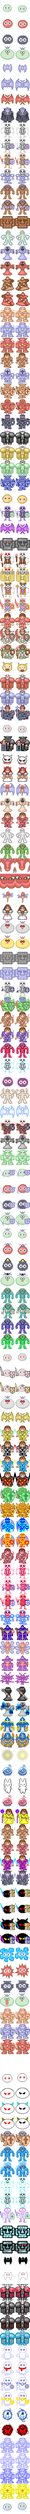
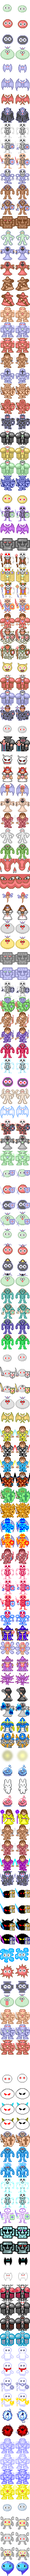
添加boss，最后调整

diff --git a/public/project/floors/MT48.js b/public/project/floors/MT48.js
@@ -25,15 +25,13 @@ main.floors.MT48=
                 "type": "setValue",
                 "name": "status:hp",
                 "operator": "/=",
-                "value": "10",
-                "norefresh": true
+                "value": "10"
             },
             {
                 "type": "setValue",
                 "name": "status:hp",
                 "operator": "+=",
-                "value": "item:yellowKey*2000+item:blueKey*5000+item:redKey*10000",
-                "norefresh": true
+                "value": "item:yellowKey*2000+item:blueKey*5000+item:redKey*10000"
             },
             {
                 "type": "function",
@@ -42,6 +40,26 @@ main.floors.MT48=
             {
                 "type": "win",
                 "reason": "第二章测试"
+            }
+        ],
+        "7,10": [
+            "\t[苍蓝之灵-虚,E647]\b[up,7,7]你来了，智慧之神看中的人。",
+            "\t[中级智人]\b[up,hero]你是什么人？",
+            "\t[苍蓝之灵-虚,E647]\b[up,7,7]苍蓝之灵。",
+            "\t[苍蓝之灵-虚,E647]\b[up,7,7]我跟你之前见到的智慧之神是同一时期的产物。",
+            "\t[苍蓝之灵-虚,E647]\b[up,7,7]你应该也知道当时发生了什么。",
+            "\t[中级智人]\b[up,hero]那你又为何出现在这里呢？",
+            "\t[苍蓝之灵-虚,E647]\b[up,7,7]抬头，看到那宏伟的宫殿了吗？（玩家视角应该看不到）",
+            "\t[苍蓝之灵-虚,E647]\b[up,7,7]那便是未来之人做下的最后赌注 - 苍蓝之殿。",
+            "\t[苍蓝之灵-虚,E647]\b[up,7,7]你现在还有很多疑虑吧，那里便有你想要找的答案。",
+            "\t[中级智人]\b[up,hero]那么我怎么过去？",
+            "\t[苍蓝之灵-虚,E647]\b[up,7,7]打败我，你便有资格进入。",
+            "\t[中级智人]\b[up,hero]为什么又是要打架？",
+            "\t[苍蓝之灵-虚,E647]\b[up,7,7]......",
+            "\t[苍蓝之灵-虚,E647]\b[up,7,7]之后，你会明白的。",
+            {
+                "type": "hide",
+                "remove": true
             }
         ]
     },
@@ -55,7 +73,18 @@ main.floors.MT48=
         }
     },
     "beforeBattle": {},
-    "afterBattle": {},
+    "afterBattle": {
+        "7,7": [
+            "\t[中级智人]\b[up,hero]为什么，为什么一定要打架，决定胜负呢？",
+            {
+                "type": "openDoor",
+                "loc": [
+                    7,
+                    3
+                ]
+            }
+        ]
+    },
     "afterGetItem": {},
     "afterOpenDoor": {},
     "autoEvent": {},
@@ -66,13 +95,13 @@ main.floors.MT48=
     [146,146,146,146,  0,  0,604,  0,604,  0,146,146,  0,  0,146],
     [  0,  0,  0,  0,  0,  0,604,  0,604,  0,  0,146,146,  0,146],
     [587,  0,584,584,584,584,584, 85,584,584,584,584,584,  0,146],
-    [587,  0,584,  0,  0,  0,  0,  0,  0,  0,  0,  0,584,  0,  0],
-    [587,  0,584,  0,  0,  0,  0,  0,  0,  0,  0,  0,584,588,588],
-    [587,  0,584,  0,  0,  0,  0,  0,  0,  0,  0,  0,584,  0,588],
-    [  0,  0,584,  0,  0,  0,  0,  0,  0,  0,  0,  0,584,  0,588],
-    [  0,  0,584,  0,  0,  0,  0,  0,  0,  0,  0,  0,584,  0,588],
-    [  0,588,584,  0,  0,  0,  0,  0,  0,  0,  0,  0,584,  0,  0],
-    [  0,588,584,  0,  0,  0,  0,  0,  0,  0,  0,  0,584,604,  0],
+    [587,  0,584,  0,  0,  0,584,  0,584,  0,  0,  0,584,  0,  0],
+    [587,  0,584,  0,  0,  0,584,  0,584,  0,  0,  0,584,588,588],
+    [587,  0,584,  0,466,  0,584,  0,584,  0,467,  0,584,  0,588],
+    [  0,  0,584,  0,  0,491,  0,647,  0,491,  0,  0,584,  0,588],
+    [  0,  0,584,  0,468,  0,584,  0,584,  0,468,  0,584,  0,588],
+    [  0,588,584,  0,  0,  0,584,  0,584,  0,  0,  0,584,  0,  0],
+    [  0,588,584,  0,  0,  0,584,  0,584,  0,  0,  0,584,604,  0],
     [588,588,584,584,584,584,584,492,584,584,584,584,584,604,  0],
     [  0,  0,  0,  0,  0,  0,604,  0,604,  0,  0,  0,  0,604,  0],
     [  0,  0,  0,  0,  0,  0,604,  0,604,  0,  0,  0,  0,  0,  0],

diff --git a/public/project/enemys.js b/public/project/enemys.js
@@ -167,5 +167,9 @@ var enemys_fcae963b_31c9_42b4_b48c_bb48d09f3f80 =
 	"E616": {"name":"新敌人","hp":0,"atk":0,"def":0,"money":0,"exp":0,"point":0,"special":[]},
 	"E617": {"name":"冰封雕像","hp":12500,"atk":2750,"def":2000,"money":2,"exp":150,"point":0,"special":[]},
 	"E618": {"name":"新敌人","hp":0,"atk":0,"def":0,"money":0,"exp":0,"point":0,"special":[]},
-	"E643": {"name":"苍蓝史莱姆","hp":17500,"atk":2800,"def":2000,"money":3,"exp":175,"point":0,"special":[28],"paleShield":30}
+	"E643": {"name":"苍蓝史莱姆","hp":17500,"atk":2800,"def":2000,"money":3,"exp":175,"point":0,"special":[28],"paleShield":30},
+	"E644": {"name":"新敌人","hp":0,"atk":0,"def":0,"money":0,"exp":0,"point":0,"special":[]},
+	"E645": {"name":"新敌人","hp":0,"atk":0,"def":0,"money":0,"exp":0,"point":0,"special":[]},
+	"E646": {"name":"新敌人","hp":0,"atk":0,"def":0,"money":0,"exp":0,"point":0,"special":[]},
+	"E647": {"name":"苍蓝之灵-虚","hp":30000,"atk":5000,"def":3000,"money":10,"exp":2500,"point":0,"special":[28],"paleShield":10}
 }

diff --git a/public/project/maps.js b/public/project/maps.js
@@ -572,6 +572,10 @@ var maps_90f36752_8815_4be8_b32b_d7fad1d0542e =
 	"641": {"cls":"items","id":"I641"},
 	"642": {"cls":"items","id":"I642"},
 	"643": {"cls":"enemys","id":"E643"},
+	"644": {"cls":"enemys","id":"E644"},
+	"645": {"cls":"enemys","id":"E645"},
+	"646": {"cls":"enemys","id":"E646"},
+	"647": {"cls":"enemys","id":"E647"},
 	"20032": {"cls":"tileset","id":"X20032","cannotOut":["up","left"],"cannotIn":["up","left"]},
 	"20033": {"cls":"tileset","id":"X20033","cannotOut":["up"],"cannotIn":["up"]},
 	"20034": {"cls":"tileset","id":"X20034","cannotOut":["up","right"],"cannotIn":["up","right"]},

diff --git a/src/source/maps.d.ts b/src/source/maps.d.ts
@@ -571,6 +571,10 @@ interface IdToNumber {
     I641: 641;
     I642: 642;
     E643: 643;
+    E644: 644;
+    E645: 645;
+    E646: 646;
+    E647: 647;
     X20032: 20032;
     X20033: 20033;
     X20034: 20034;
@@ -1227,6 +1231,10 @@ interface NumberToId {
     641: 'I641';
     642: 'I642';
     643: 'E643';
+    644: 'E644';
+    645: 'E645';
+    646: 'E646';
+    647: 'E647';
     20032: 'X20032';
     20033: 'X20033';
     20034: 'X20034';

diff --git a/public/project/plugin/fiveLayer.js b/public/project/plugin/fiveLayer.js
@@ -6,7 +6,7 @@ function createCanvas(name, zIndex) {
     if (!name) return;
     var canvas = document.createElement('canvas');
     canvas.id = name;
-    canvas.className = 'gameCanvas';
+    canvas.className = 'gameCanvas no-anti-aliasing';
     // 编辑器模式下设置zIndex会导致加入的图层覆盖优先级过高
     if (main.mode != 'editor') canvas.style.zIndex = zIndex || 0;
     // 将图层插入进游戏内容

diff --git a/public/project/items.js b/public/project/items.js
@@ -1221,7 +1221,7 @@ var items_296f5d02_12fd_4166_a7c1_b5e830c9ee3a =
 		"canUseItemEffect": "true",
 		"text": "!!html<span style=\"color: gold\">饰品</span>。与寒冰没有任何关系，但是为什么叫寒冰护符呢？攻击和额外攻击各增加5%",
 		"equip": {
-			"type": "饰品",
+			"type": "首饰",
 			"value": {},
 			"percentage": {
 				"mana": 5,

diff --git a/src/source/cls.d.ts b/src/source/cls.d.ts
@@ -571,6 +571,10 @@ interface IdToCls {
     I641: 'items';
     I642: 'items';
     E643: 'enemys';
+    E644: 'enemys';
+    E645: 'enemys';
+    E646: 'enemys';
+    E647: 'enemys';
     X20032: 'tileset';
     X20033: 'tileset';
     X20034: 'tileset';

diff --git a/public/project/icons.js b/public/project/icons.js
@@ -404,7 +404,11 @@ var icons_4665ee12_3a1f_44a4_bea3_0fccba634dc1 =
 		"E616": 160,
 		"E617": 161,
 		"E618": 162,
-		"E643": 163
+		"E643": 163,
+		"E644": 164,
+		"E645": 165,
+		"E646": 166,
+		"E647": 167
 	},
 	"enemy48": {
 		"angel": 0,

diff --git a/src/panel/enemySpecial.vue b/src/panel/enemySpecial.vue
@@ -94,10 +94,6 @@ const format = core.formatBigNumber;
         font-size: 3.8vw;
     }
 
-    #special-scroll {
-        height: 50vh;
-    }
-
     #critical-des,
     .critical {
         font-size: 3.6vw;

diff --git a/public/project/plugin/skills.js b/public/project/plugin/skills.js
@@ -33,7 +33,8 @@ export const jumpIgnoreFloor = [
     'MT44',
     'MT45',
     'MT46',
-    'MT47'
+    'MT47',
+    'MT48'
 ];
 // 跳跃
 export function jumpSkill() {
